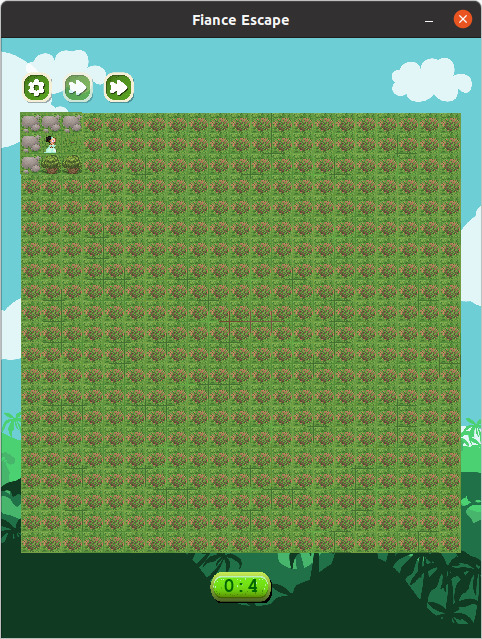
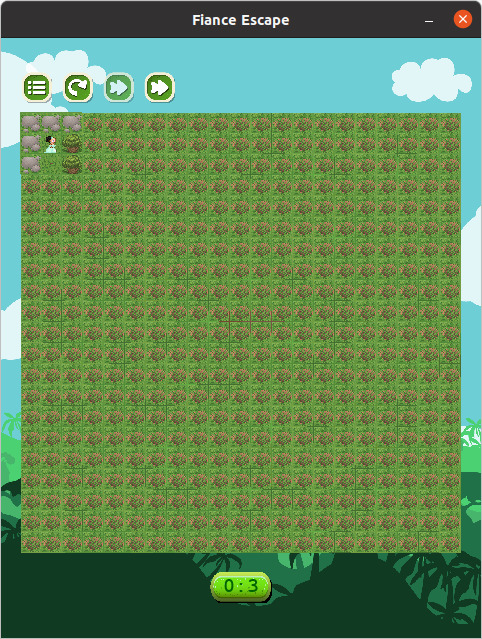
Added refresh button

diff --git a/fiance_escape/fiance_escape.py b/fiance_escape/fiance_escape.py
@@ -68,10 +68,14 @@ class FianceEscape:
         self.button_return = pygame.transform.scale(pygame.image.load('fiance_escape/media/main.png'), button_size)
         self.button_return_rect = self.button_return.get_rect(bottomleft=(grid_left, grid_top - 0.5*spacing_buttons))
 
+        self.button_update = pygame.transform.scale(pygame.image.load('fiance_escape/media/update.png'), button_size)
+        self.button_update_rect = self.button_update.get_rect(bottomleft=(self.button_return_rect.right + 0.5*spacing_buttons,
+                                                                          self.button_return_rect.bottom))
+
         self.button_solve = pygame.transform.scale(pygame.image.load('fiance_escape/media/solve.png'), button_size)
         self.button_solve.set_alpha(180)
-        self.button_solve_rect = self.button_solve.get_rect(bottomleft=(self.button_return_rect.right + 0.5*spacing_buttons,
-                                                                        self.button_return_rect.bottom))
+        self.button_solve_rect = self.button_solve.get_rect(bottomleft=(self.button_update_rect.right + 0.5*spacing_buttons,
+                                                                        self.button_update_rect.bottom))
 
         self.button_solve_2 = pygame.transform.scale(pygame.image.load('fiance_escape/media/solve.png'), button_size)
         self.button_solve_2_rect = self.button_solve_2.get_rect(bottomleft=(self.button_solve_rect.right + 0.5*spacing_buttons,
@@ -89,9 +93,7 @@ class FianceEscape:
         pygame.display.set_caption("Fiance Escape")
 
         while True:
-            # Game background music
-            if not self.channel_music.get_busy():
-                self.channel_music.play(self.music_seeking, -1)
+            self.update()
 
             self.main_screen()
             self.play()
@@ -118,9 +120,7 @@ class FianceEscape:
                         open('https://github.com/filipemedeiross/', new=2)
 
     def play(self):
-        # Update the maze surface and the clock
-        self.load_maze()
-
+        # Update the clock
         self.clock.tick()
         time = 0
 
@@ -128,6 +128,7 @@ class FianceEscape:
         self.screen.blit(self.bg, (0, 0))  # overriding home screen buttons
 
         self.screen.blit(self.button_return, self.button_return_rect)
+        self.screen.blit(self.button_update, self.button_update_rect)
         self.screen.blit(self.button_solve, self.button_solve_rect)
         self.screen.blit(self.button_solve_2, self.button_solve_2_rect)
 
@@ -141,14 +142,21 @@ class FianceEscape:
                     exit(0)
                 elif event.type == pygame.MOUSEBUTTONDOWN:
                     if self.button_return_rect.collidepoint(event.pos):
-                        self.update()  # update the grid and reset fiancee
                         return
+                    if self.button_update_rect.collidepoint(event.pos):
+                        self.update()  # update the game
+
+                        self.clock.tick()
+                        time = 0
+
+                        self.display_grid()
+                        self.screen.blit(self.fiancee.image, self.fiancee.rect)
 
                 if not self.maze.won(self.fiancee.x, self.fiancee.y):
                     if event.type == pygame.MOUSEBUTTONDOWN:
                         if self.button_solve_rect.collidepoint(event.pos):
                             self.solver = OnlineDFSAgent()
-                        elif self.button_solve_2_rect.collidepoint(event.pos):
+                        if self.button_solve_2_rect.collidepoint(event.pos):
                             self.solver = LRTAStar()
 
                     if self.solver:
@@ -277,6 +285,11 @@ class FianceEscape:
         self.maze.update_maze()  # update the grid
         self.fiancee.reset()  # reset the fiance
         self.solver = None  # reset the solver
+        self.load_maze()  # update the maze
+
+        # Game background music
+        if not self.channel_music.get_busy():
+            self.channel_music.play(self.music_seeking, -1)
             
     @staticmethod
     def grid_to_rect(x, y):
